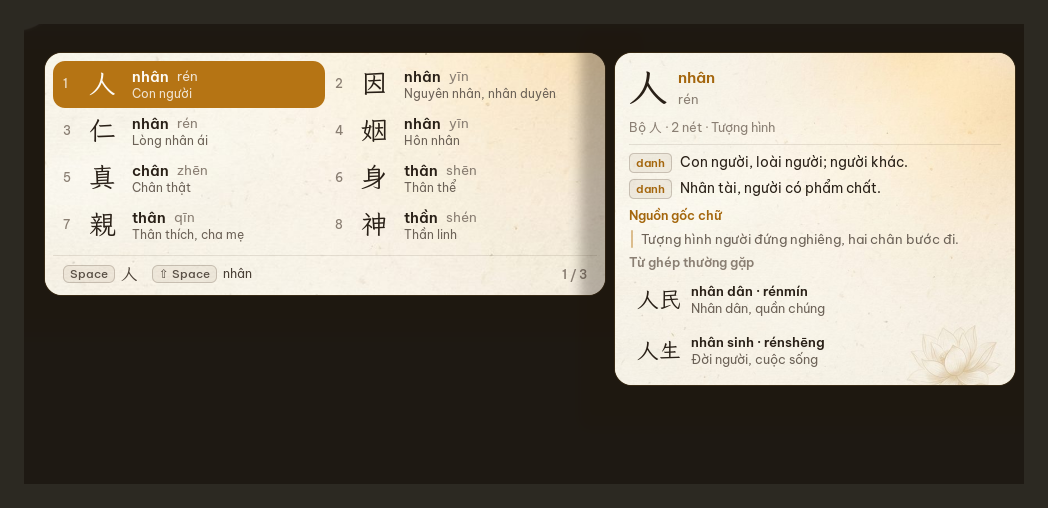
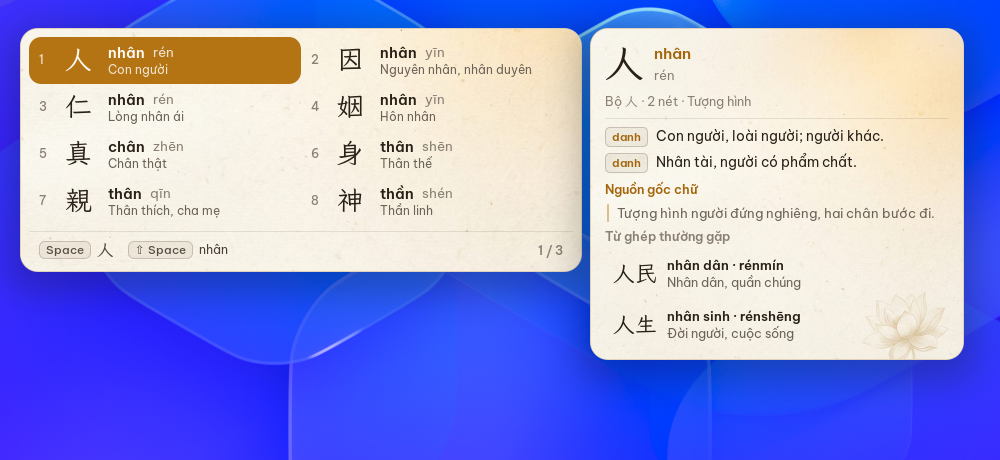
docs: cập nhật tài liệu, hình ảnh và lịch sử thay đổi cho v0.2.9

diff --git a/CHANGELOG.md b/CHANGELOG.md
@@ -1,5 +1,13 @@
 # Lịch sử thay đổi
 
+## 0.2.9
+
+- Chuẩn hóa chính tả i / y trong âm Hán-Việt (tỉ ~ tỷ, kì ~ kỳ, yên ~ iên) và nhận đủ thanh điệu Pinyin trên chữ m / n (ń, ň, ǹ, ḿ), đạt mức 0 chữ bỏ sót trong toàn bộ 40.912 chữ đơn.
+- Mở rộng kho từ lên 40.912 chữ đơn, 158.672 từ ghép và 151.865 mục từ điển chi tiết (bổ sung 波羅蜜多, 般若波羅蜜多, 三藐三菩提, 比丘, 比丘尼 và biến âm Phật học / Nam Bộ như đỉnh ~ đảnh, chân ~ chơn, thịnh ~ thạnh, tỉ ~ tỳ).
+- Hiển thị thêm nghĩa Phật học chuyên sâu ngay cả với những thuật ngữ đã có giải nghĩa phổ thông (như 因緣, 般若, 菩提, 涅槃, 慈悲) và chuẩn hóa khoảng cách dấu ngoặc.
+- Sửa lỗi đồng bộ và lưu cấu hình số thanh Pinyin, thế gõ mặc định, màu viền cửa sổ theo 3 chủ đề trên Windows, dọn tiến trình con fcitx5 và bảo toàn phông chữ GNOME / trạng thái Kimpanel khi cài hoặc gỡ trên Linux.
+- Cải thiện hiển thị ghi chú cập nhật và mục báo lỗi trên Android.
+
 ## 0.2.8
 
 - Bổ sung giải nghĩa tiếng Việt súc tích cho **18.320** thuật ngữ Phật học ngay trên dòng ứng viên và thẻ từ điển (**149.067** mục từ điển chi tiết).

diff --git a/NOTICE.md b/NOTICE.md
@@ -50,7 +50,13 @@ Bản quyền: wordfreq © 2022 Robyn Speer; THUOCL © 2018 THUNLP; phrase-pinyi
 Lõi bộ gõ viết bằng Rust, dùng các thư viện mã nguồn mở theo giấy phép MIT, Apache-2.0, Zlib và Unicode-3.0:
 bytes, cesu8, cfg-if, combine, equivalent, foldhash, hashbrown, indexmap, itoa, jni, jni-sys, log, memchr, serde,
 serde_json, thiserror, tinyvec, unicode-ident, unicode-normalization, zmij (cùng các thư viện dựng mã proc-macro2,
-quote, syn). Danh sách lấy từ `cargo metadata` của bản 0.2.0.
+quote, syn). Danh sách kiểm kê đến bản 0.2.9.
+
+### Bản Linux (`HanTuIME-linux-x86_64.run`)
+
+- **Addon Fcitx5 (`libhanime.so`)**: viết bằng C++20 liên kết tĩnh với lõi Rust (`libhan_ime_ffi.a`) và giao tiếp qua thư viện `Fcitx5Core` / `Fcitx5Utils` (LGPL-2.1-or-later).
+- **Cửa sổ cài đặt (`hanime-settings`)**: dùng chung giao diện [Slint](https://slint.dev) 1.19 (`LicenseRef-Slint-Royalty-free-2.0`) và lõi Rust (`MIT OR Apache-2.0`).
+- **Tiện ích GNOME Shell (`hanime-panel@hantu`)**: phát triển từ `gnome-shell-extension-kimpanel` theo giấy phép [GPL-2.0-or-later](https://www.gnu.org/licenses/old-licenses/gpl-2.0.html) (xem toàn văn tại `hanime-panel@hantu/LICENSE`).
 
 ### Bản Windows
 

diff --git a/README.md b/README.md
@@ -2,7 +2,7 @@
 
 Bộ gõ chữ Hán đa nền tảng (**Android** · **Windows** · **Linux `fcitx5`**) cho phép gõ **âm Hán-Việt (Telex)**, **Pinyin** và **tiếng Việt** mượt mà ngay trên cùng một dòng mà không cần chuyển bộ gõ. Hỗ trợ cả **Phồn thể** lẫn **Giản thể**, tích hợp từ điển chiết tự và thuật ngữ Phật học ngay tại con trỏ.
 
-- **Kho dữ liệu đi kèm:** `40.914` chữ đơn · `155.896` từ ghép · `149.067` mục giải nghĩa chi tiết.
+- **Kho dữ liệu đi kèm:** `40.912` chữ đơn · `158.672` từ ghép · `151.865` mục giải nghĩa chi tiết.
 - **Nguyên tắc:** Phi lợi nhuận · Miễn phí · Không quảng cáo · Chạy 100% ngoại tuyến, không thu thập dữ liệu.
 - **Tác giả:** Hue Hung, Claude & Gemini · **Trang chính:** [hantu.wiki](https://hantu.wiki) · **Trang tải:** [hantu.wiki/bo-go](https://hantu.wiki/bo-go)
 
